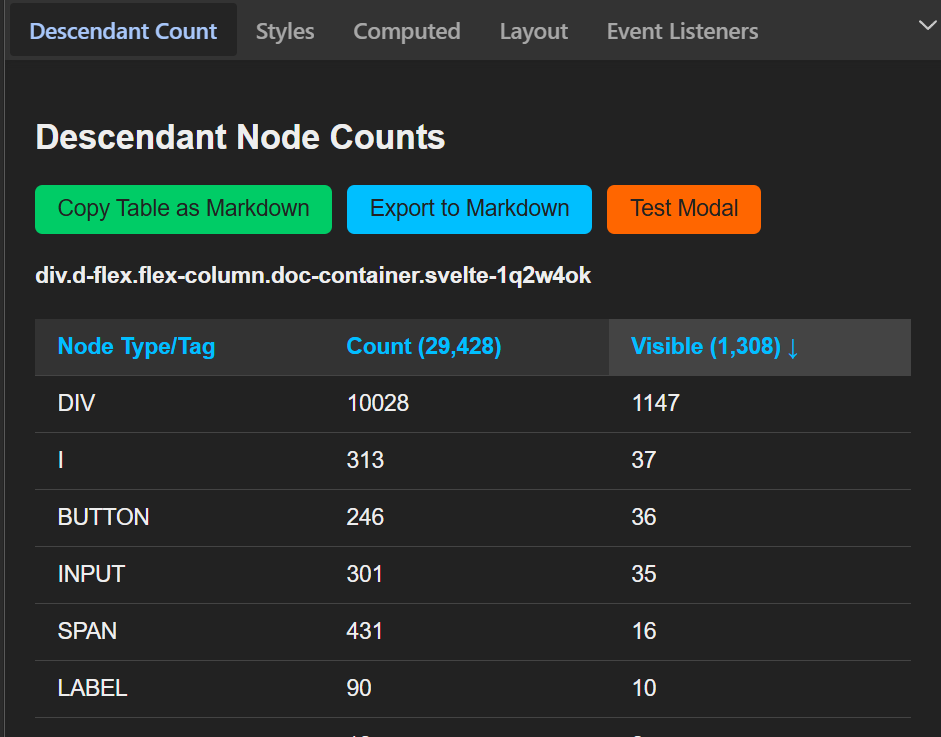
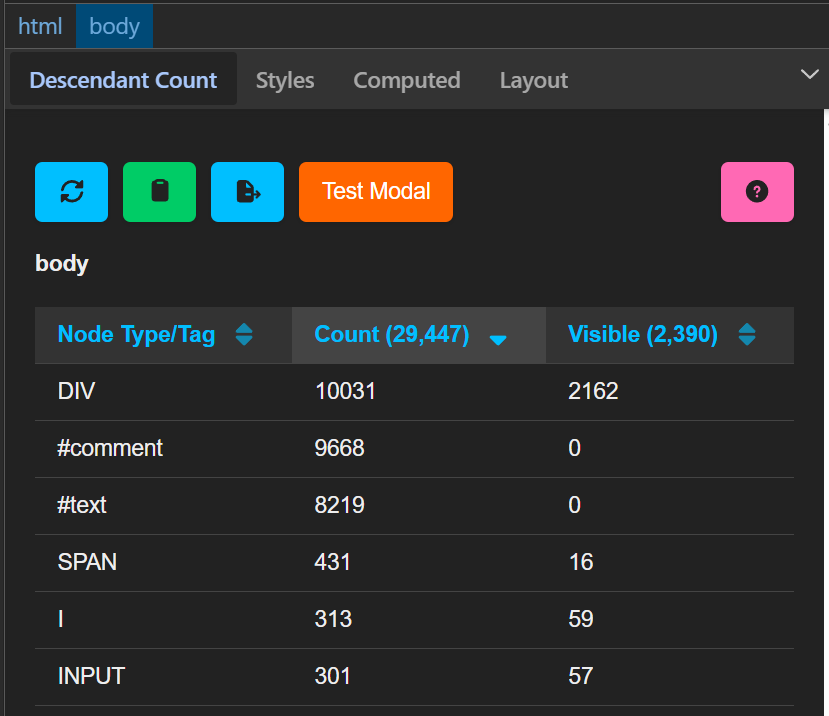
docs: Update README and screenshots (#9)

diff --git a/README.md b/README.md
@@ -46,6 +46,11 @@ The extension's primary goal is to **recursively count all children of the selec
   - Generation timestamp and extension attribution
 - **Automatic downloads** - Files saved with descriptive names including element info and timestamp
 
+### ❓ **Help and Documentation**
+- **Built-in help** - Click the help button to learn about visibility criteria
+- **Clear definitions** - Explains what counts as a "visible" descendant element
+- **Accessibility information** - Details about how elements are analyzed and counted
+
 ### 🎨 **Theme Support**
 - **Automatic theme detection** - Matches DevTools light/dark theme preferences
 - **Instant theme switching** - No reload required when changing DevTools theme
@@ -82,8 +87,9 @@ Follow [this link](docs/export-sample.md) to the sample markdown file.
 4. Look for the **"Descendant Count"** sidebar panel
 5. View the detailed breakdown of child elements
 6. Use the column headers to sort data by different criteria
-7. Click **"Copy Table as Markdown"** to copy data to clipboard
-8. Click **"Export to Markdown"** to download a complete report
+7. Click **"Copy List"** (clipboard icon) to copy data to clipboard
+8. Click **"Export to Markdown"** (export icon) to download a complete report
+9. Click the **"Help"** button (question mark icon) to learn about visibility criteria
 
 ## Technical Details
 
@@ -104,16 +110,18 @@ src/
 ├── table-sort.ts          # Sortable table functionality
 ├── clipboard.ts           # Copy-to-clipboard operations
 ├── markdown.ts            # Export functionality
+├── modal.ts               # Modal utility functions
 ├── ui.ts                  # UI rendering and management
-├── theme-loader.ts        # Theme detection and switching
 ├── background.ts          # Background script for privileged operations
 ├── types.ts               # TypeScript type definitions
+├── vite-env.d.ts          # Vite type declarations
 ├── public/                # Stylesheets for theming
-│   ├── style.css          # Base styles
-│   ├── style-dark.css     # Dark theme
-│   └── style-light.css    # Light theme
+│   ├── style.css          # Base styles and modal styles
+│   ├── style-dark.css     # Dark theme overrides
+│   └── style-light.css    # Light theme overrides
 └── assets/
-    └── copy-modal.html    # Fallback copy modal template
+    ├── copy-modal.html    # Copy modal template
+    └── help-visible-modal.html # Help modal template
 ```
 
 ## Development
